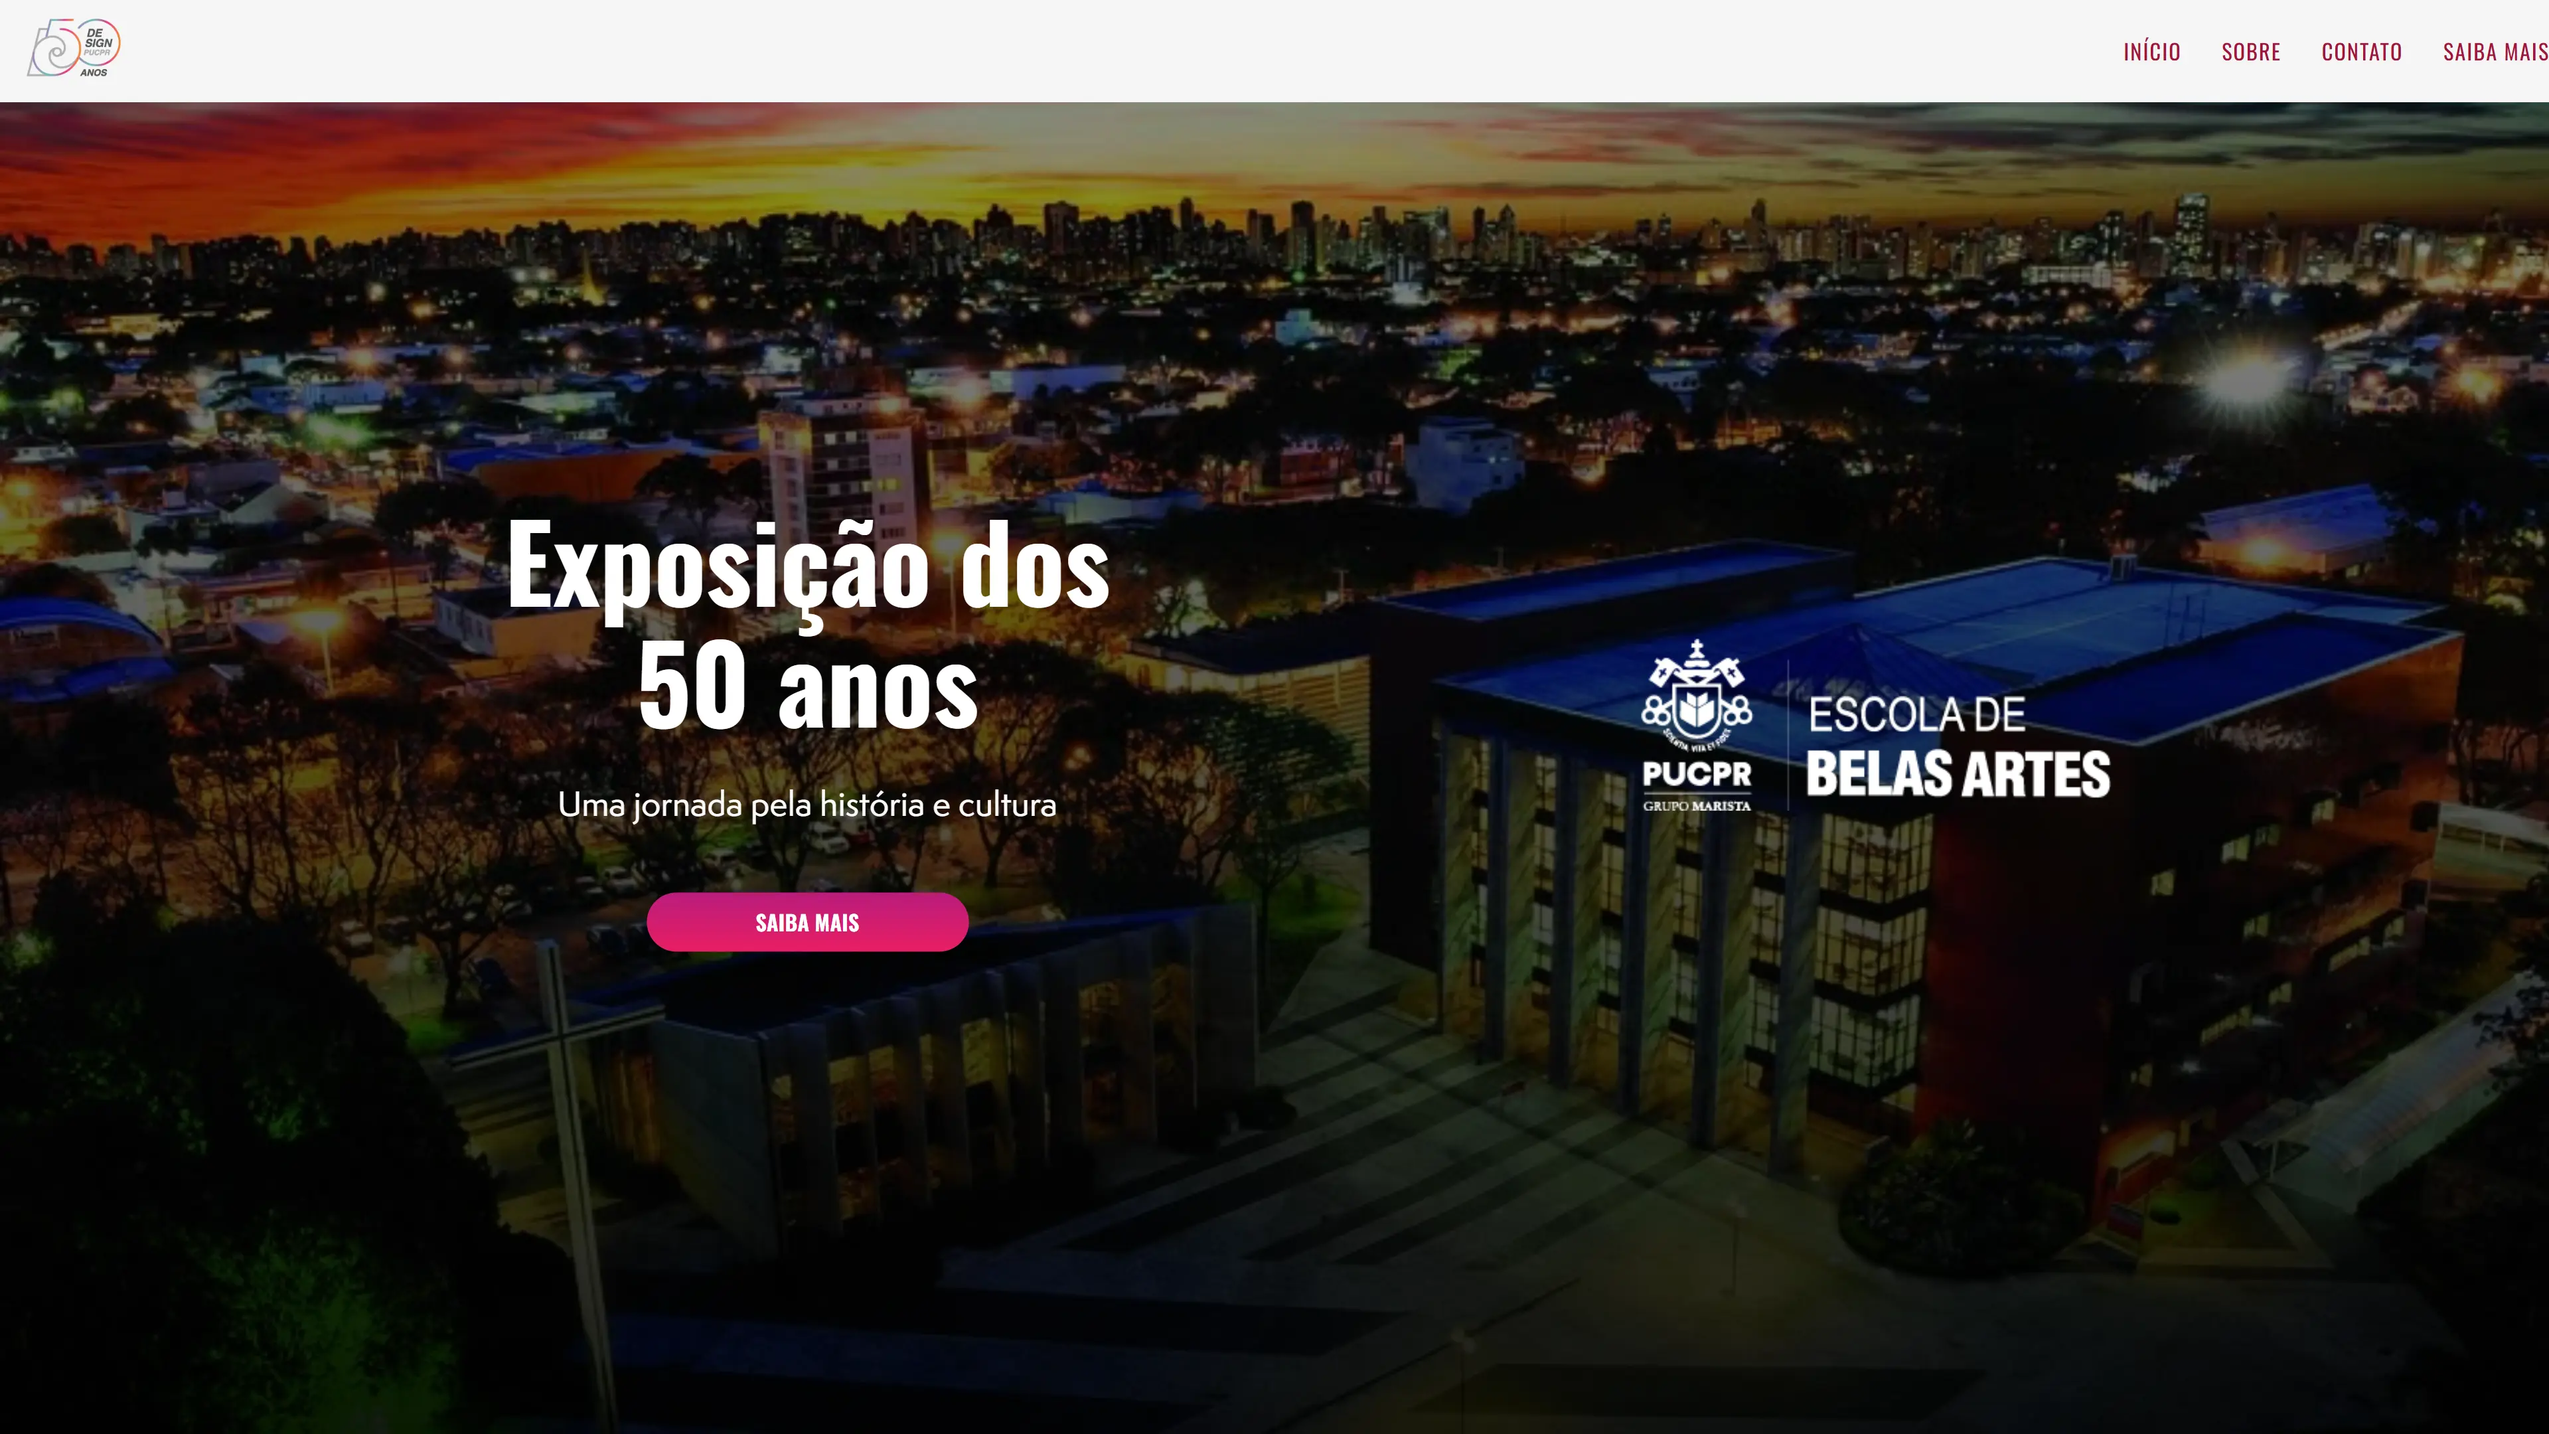
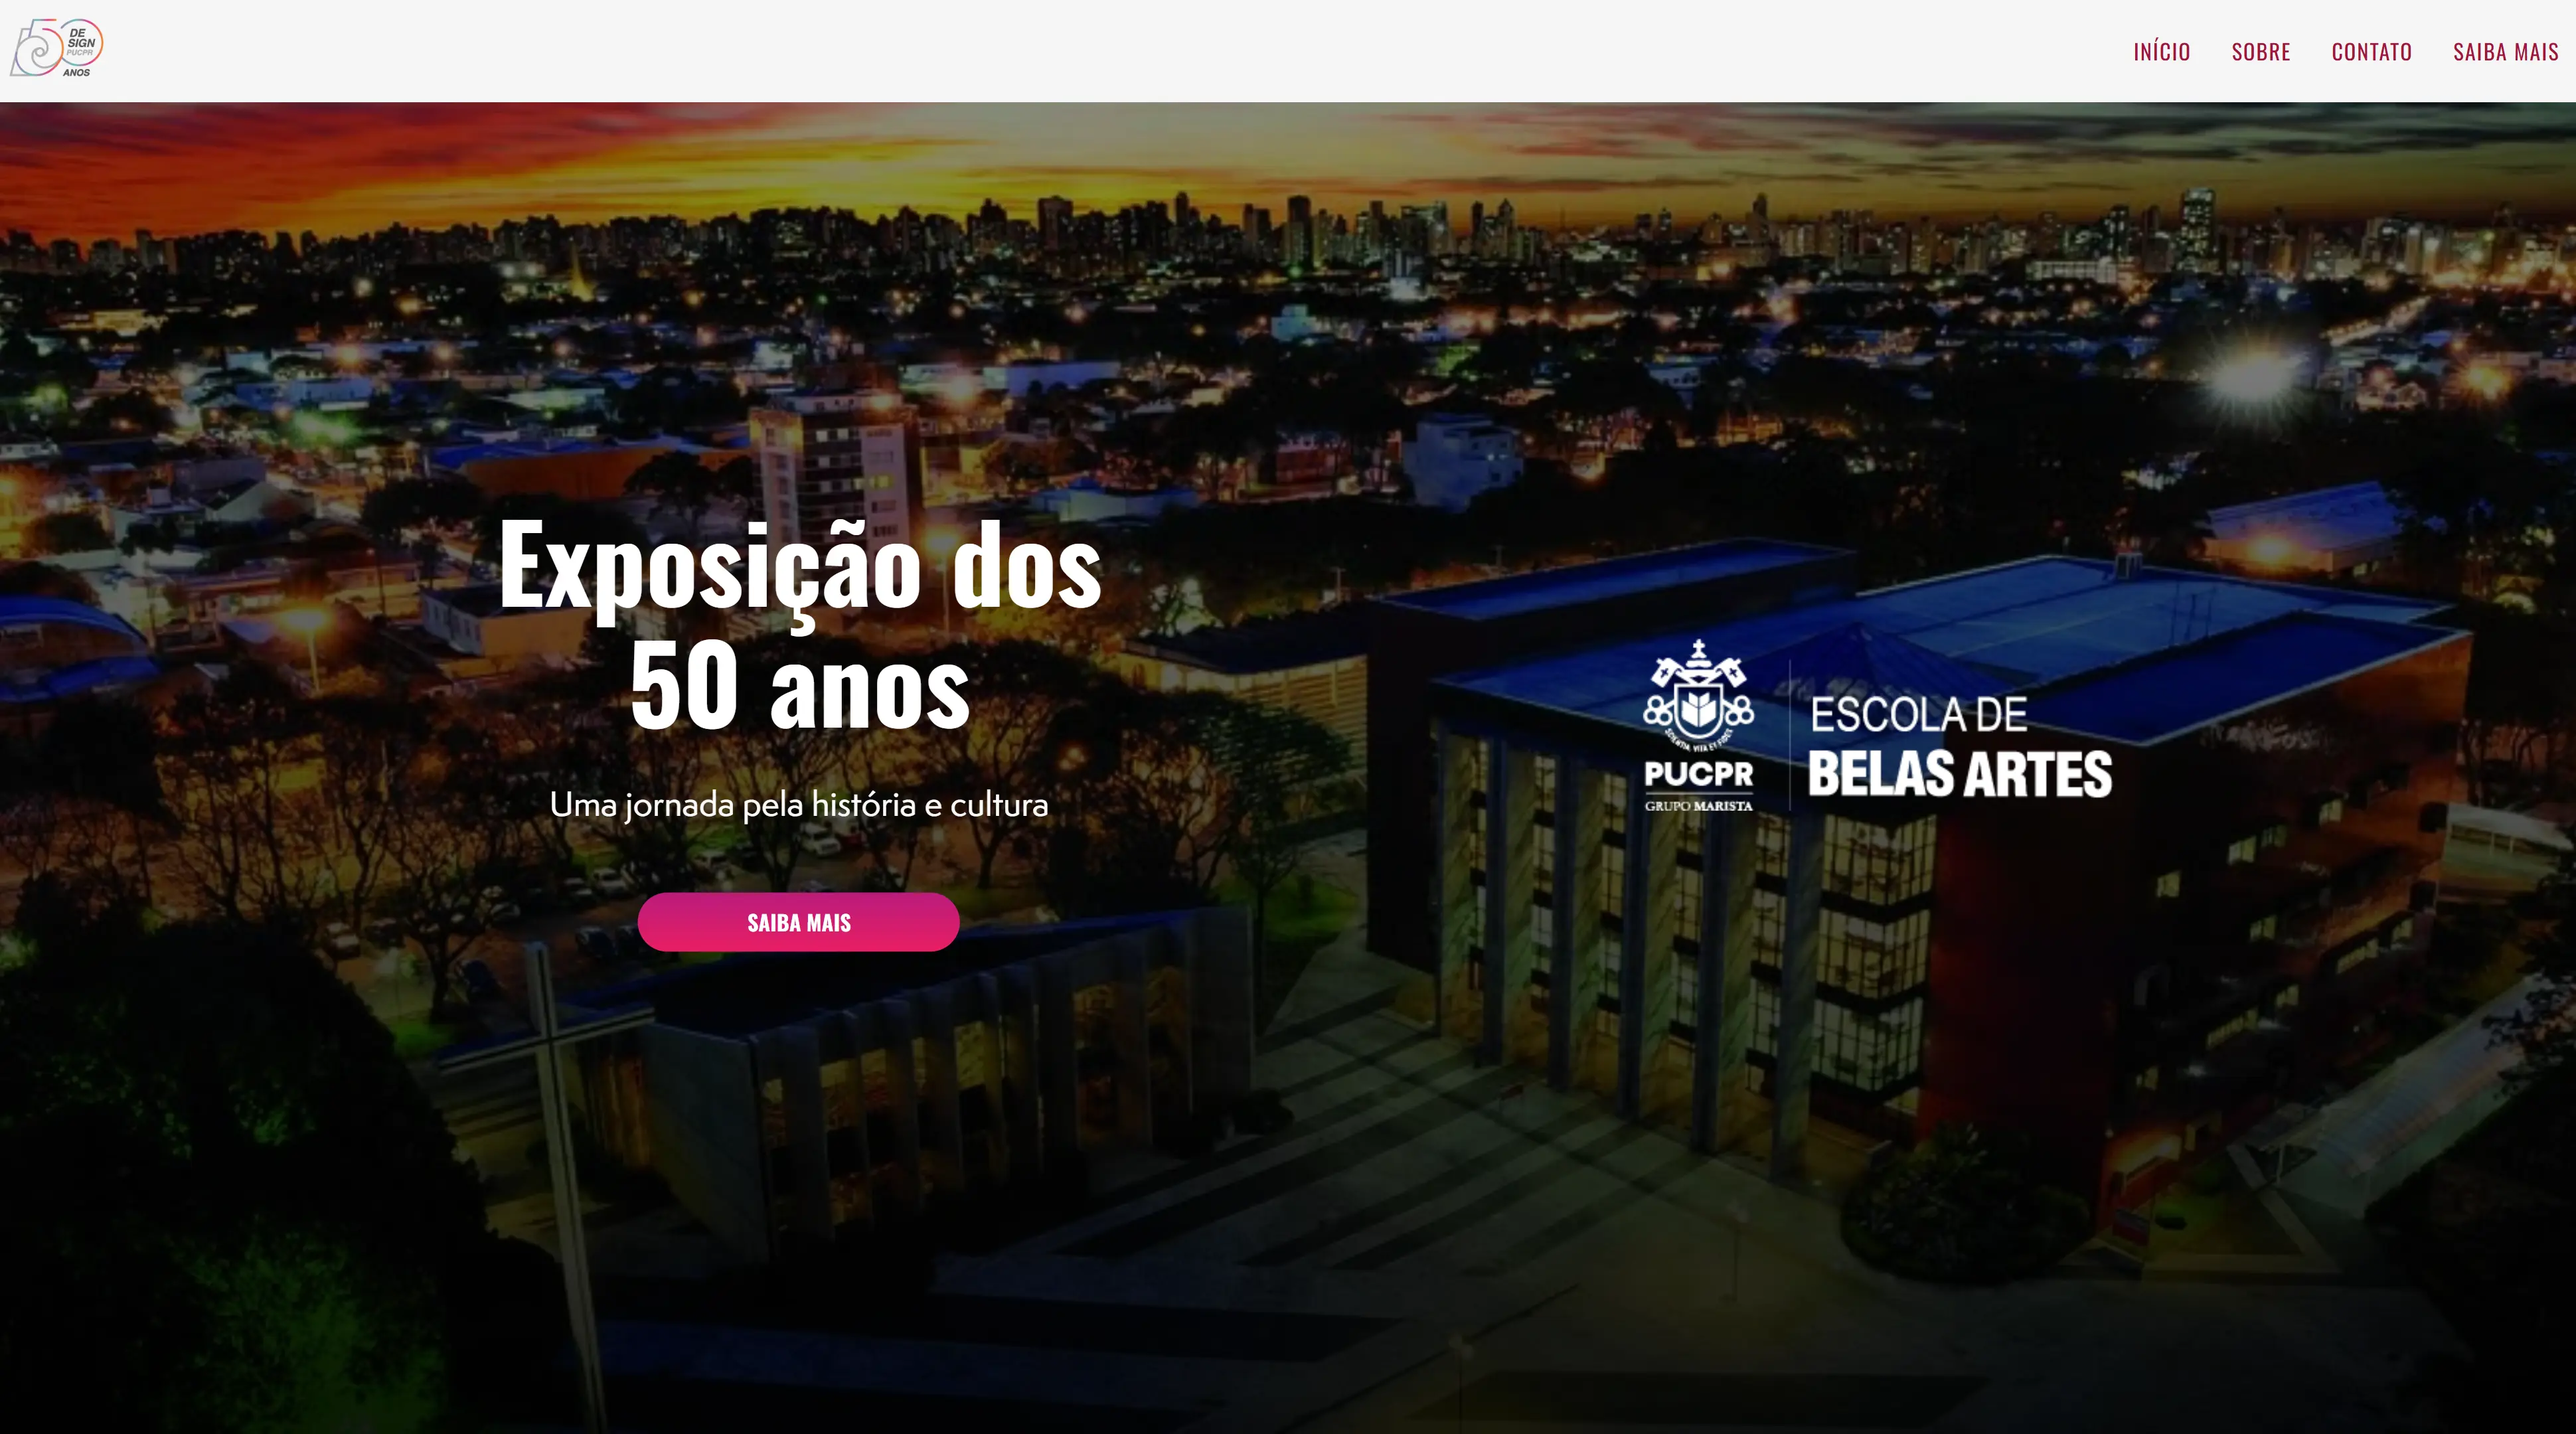
new proj feats: demo not available; carousel update

diff --git a/src/components/project-carousel.tsx b/src/components/project-carousel.tsx
@@ -91,10 +91,36 @@ export default function ProjectCarousel({ images, label }: ProjectCarouselProps)
                         type="button"
                         onClick={() => setIsPreviewOpen(false)}
                         aria-label="Fechar visualização ampliada"
-                        className="absolute right-5 top-5 flex size-10 items-center justify-center border border-white/30 text-white transition-colors hover:border-accent hover:text-accent"
+                        className="absolute right-5 top-5 z-10 flex size-10 items-center justify-center border border-white/30 text-white transition-colors hover:border-accent hover:text-accent"
                     >
                         <X className="size-5" />
                     </button>
+                    {hasMultipleImages && (
+                        <>
+                            <button
+                                type="button"
+                                onClick={(event) => {
+                                    event.stopPropagation();
+                                    showPrevious();
+                                }}
+                                aria-label={`Imagem anterior de ${label}`}
+                                className="absolute left-5 top-1/2 z-10 flex size-11 -translate-y-1/2 items-center justify-center border border-white/30 text-white transition-colors hover:border-accent hover:text-accent"
+                            >
+                                <ChevronLeft className="size-6" />
+                            </button>
+                            <button
+                                type="button"
+                                onClick={(event) => {
+                                    event.stopPropagation();
+                                    showNext();
+                                }}
+                                aria-label={`Próxima imagem de ${label}`}
+                                className="absolute right-5 top-1/2 z-10 flex size-11 -translate-y-1/2 items-center justify-center border border-white/30 text-white transition-colors hover:border-accent hover:text-accent"
+                            >
+                                <ChevronRight className="size-6" />
+                            </button>
+                        </>
+                    )}
                     <img
                         src={activeImage.src}
                         alt={activeImage.alt}

diff --git a/src/pages/project-detail.tsx b/src/pages/project-detail.tsx
@@ -173,16 +173,20 @@ export default function ProjectDetail() {
                         </a>
                     )}
 
-                    {project.demo && (
+                    {project.demo ? (
                         <a
                             href={project.demo}
                             target="_blank"
                             rel="noopener noreferrer"
-                            className="inline-flex items-center gap-2 transition-colors hover:text-accent"
+                            className="inline-flex items-center gap-2 transition-colors text-accent hover:text-accent/60"
                         >
                             Demo
                             <ArrowUpRight className="size-3.5" />
                         </a>
+                    ) : (
+                        <span className="inline-flex items-center gap-2 text-red-500">
+                            Demo indisponível
+                        </span>
                     )}
                 </div>
             </main>

diff --git a/src/data/projects.ts b/src/data/projects.ts
@@ -96,7 +96,6 @@ export const projects: Project[] = [
         frontEnd: ["React Native", "Expo", "TypeScript"],
         backEnd: ["API de perfis"],
         tools: ["Figma", "Expo Go", "GitHub"],
-        demo: "https://cardly.bluepaper.com.br/",
     },
     {
         id: 4,
